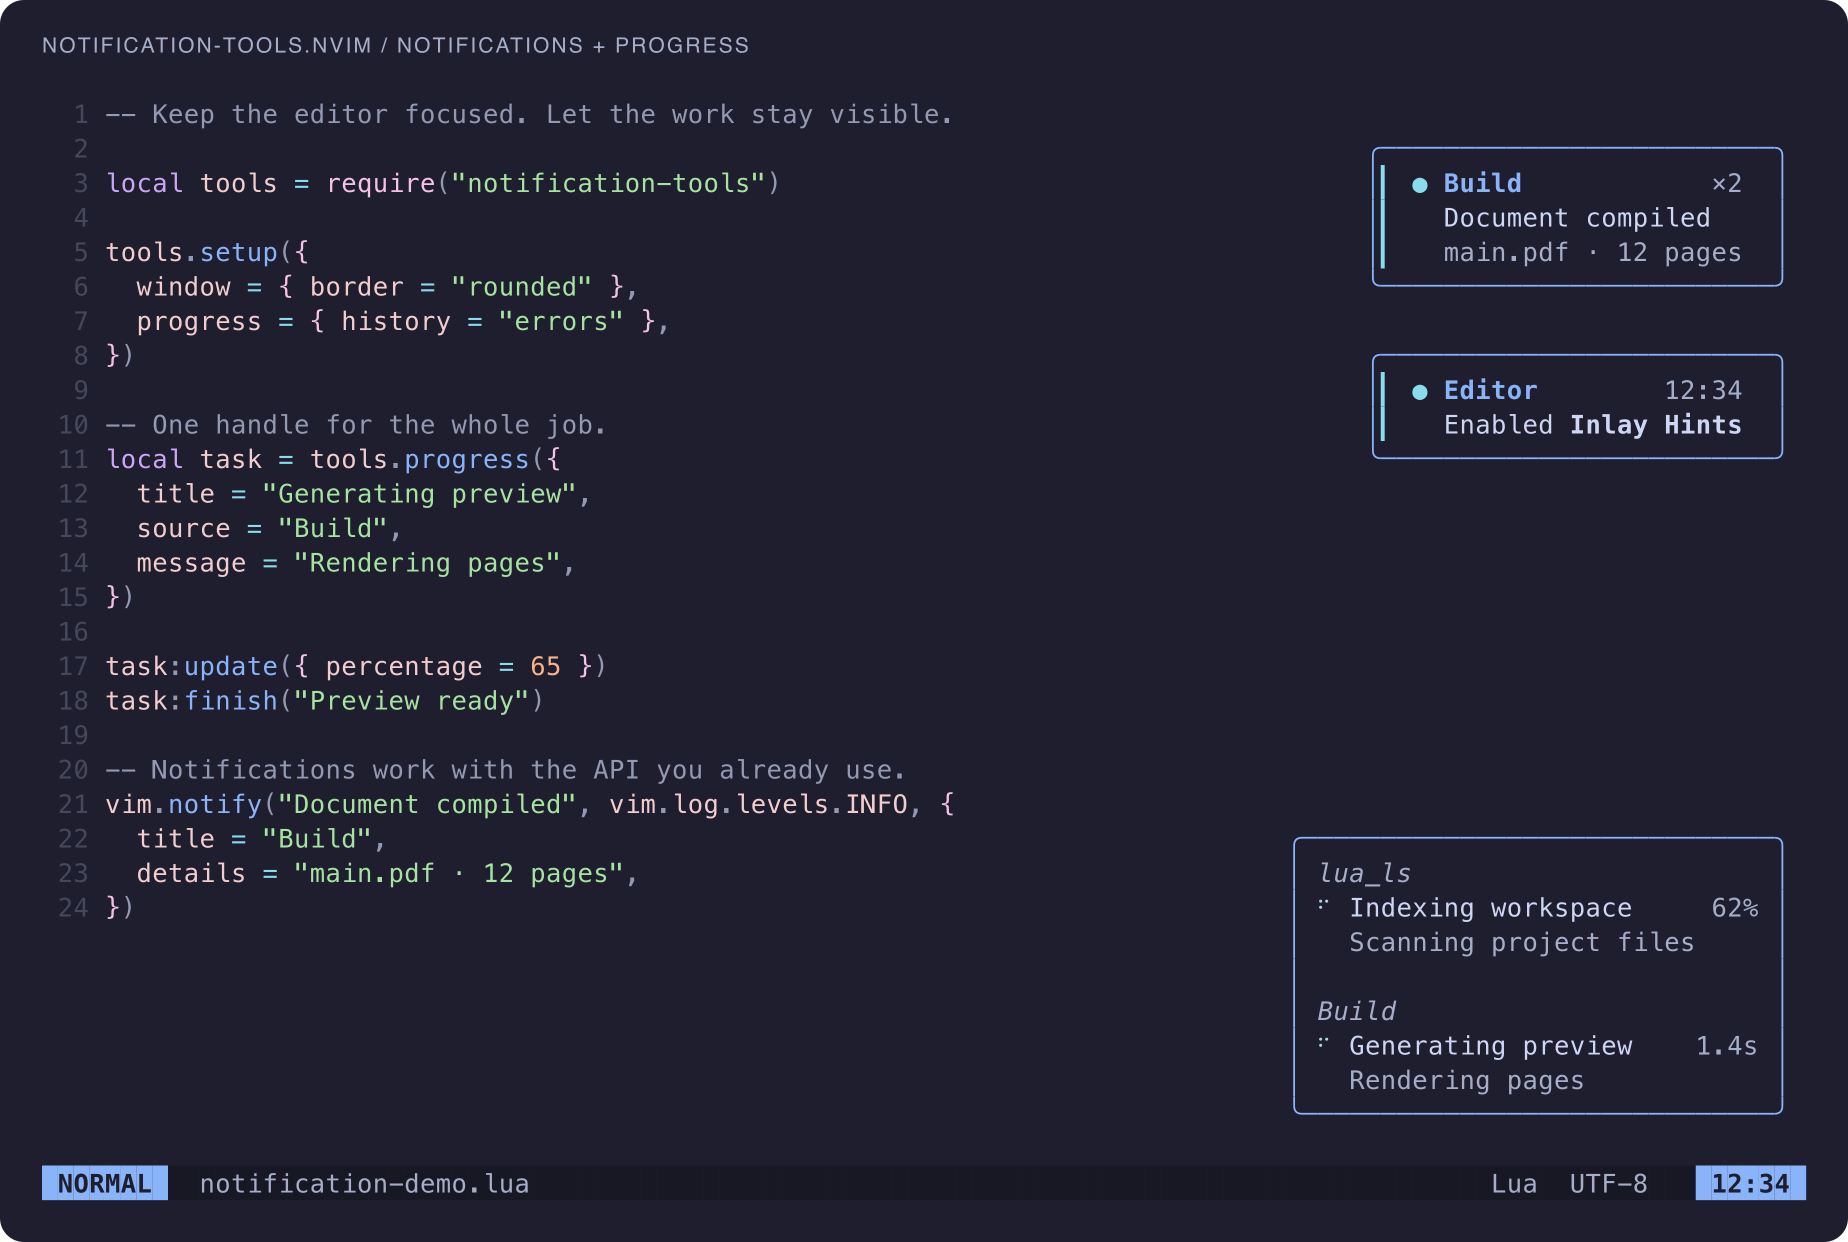
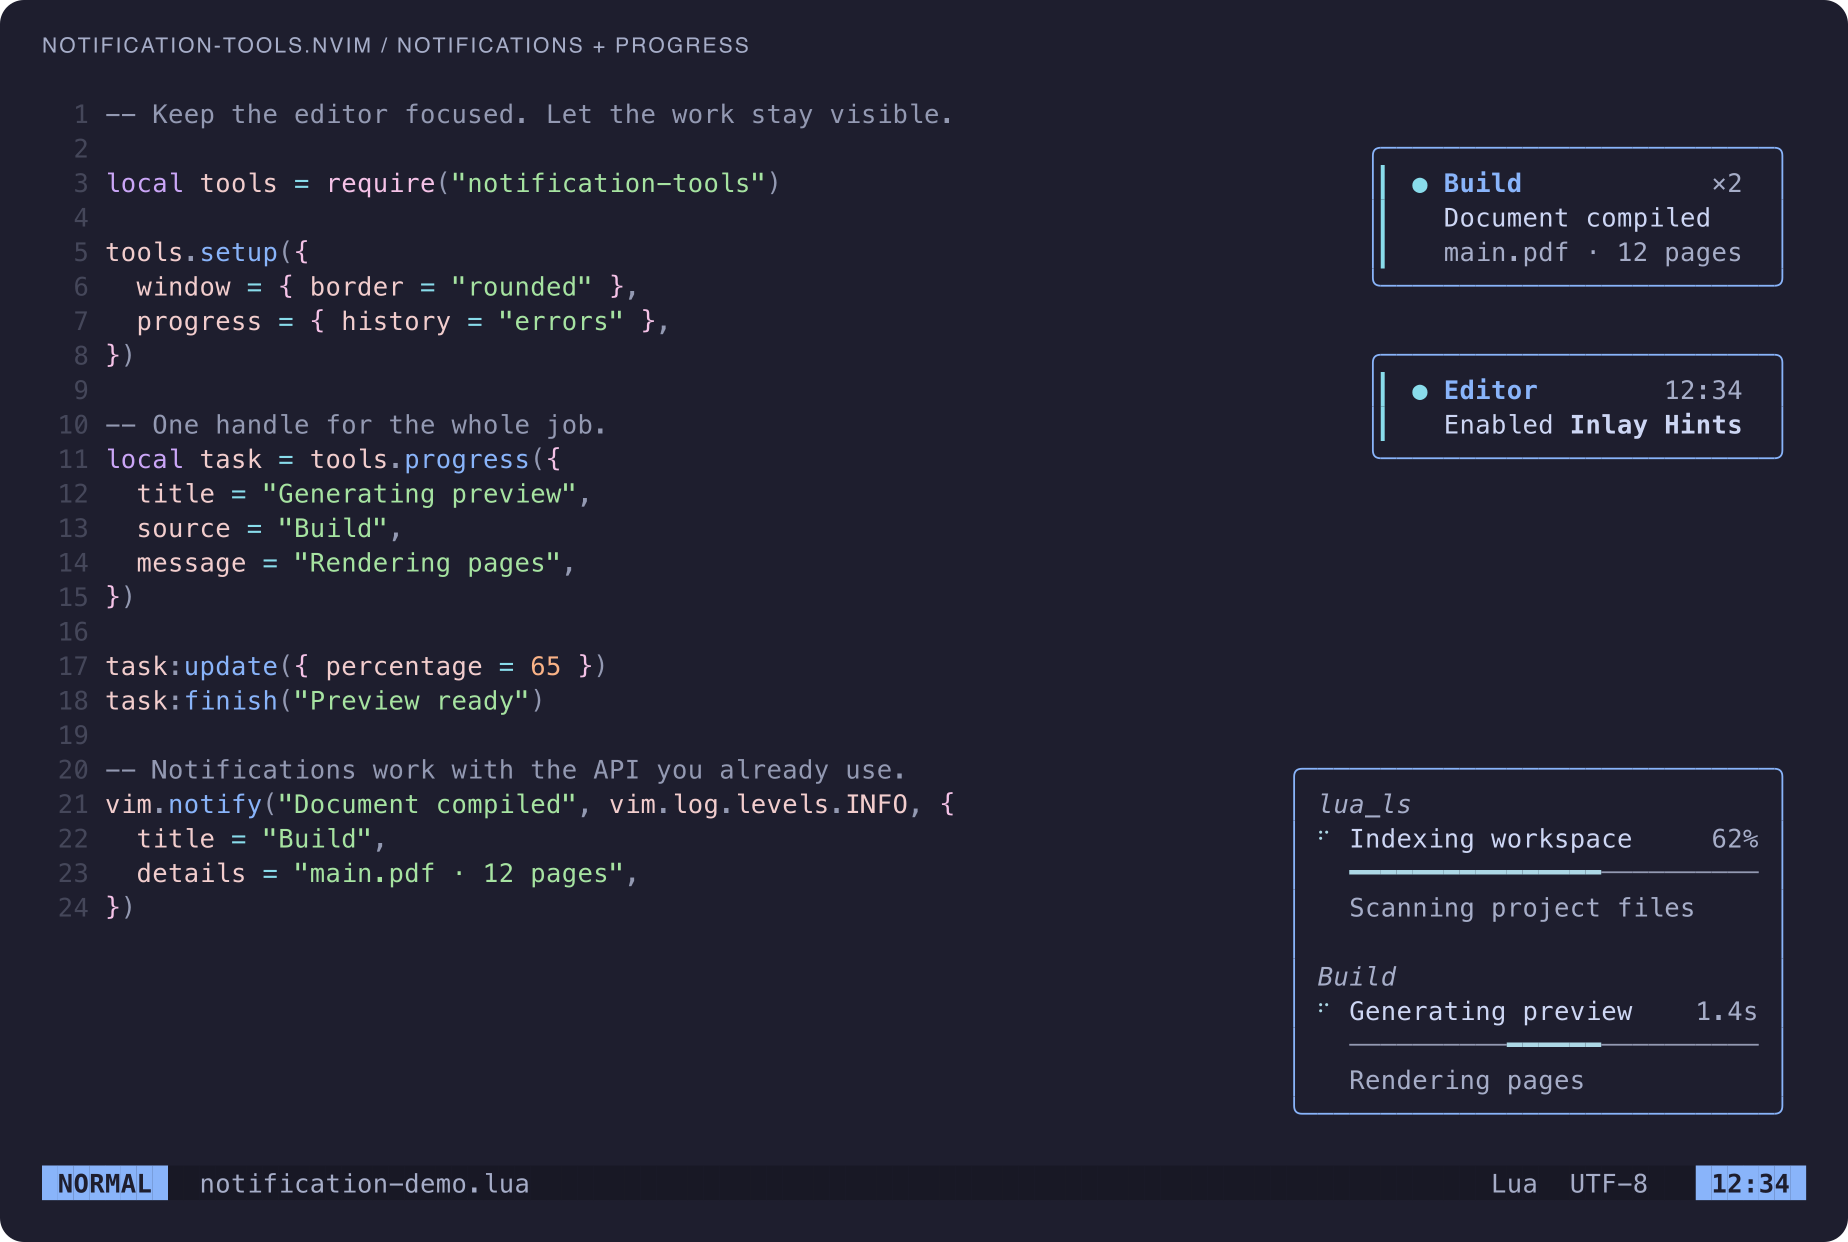
feat: make adaptive progress bars the default task style

Changed region(s): [[0.7094, 0.6425, 0.9562, 0.8567], [0.9253, 0.7955, 0.9562, 0.8567]]

diff --git a/scripts/screenshots.py b/scripts/screenshots.py
@@ -162,6 +162,7 @@ def svg(capture, title, font):
             cx, cy, radius = x + cell_width / 2, y + cell_height / 2, cell_width / 2
             box = {
                 "─": f"M {x},{cy} H {x + cell_width}",
+                "━": f"M {x},{cy} H {x + cell_width}",
                 "│": f"M {cx},{y} V {y + cell_height}",
                 "╭": f"M {cx},{y + cell_height} V {cy + radius} Q {cx},{cy} {x + cell_width},{cy}",
                 "╮": f"M {x},{cy} Q {cx},{cy} {cx},{cy + radius} V {y + cell_height}",
@@ -169,7 +170,8 @@ def svg(capture, title, font):
                 "╯": f"M {x},{cy} Q {cx},{cy} {cx},{cy - radius} V {y}",
             }
             if char in box:
-                foregrounds.append(f'<path d="{box[char]}" fill="none" stroke="{color(fg)}" stroke-width="1.2"/>')
+                stroke = 3 if char == "━" else 1.2
+                foregrounds.append(f'<path d="{box[char]}" fill="none" stroke="{color(fg)}" stroke-width="{stroke}"/>')
                 continue
             if char == "▎":
                 foregrounds.append(f'<rect x="{x}" y="{y}" width="{cell_width / 4}" height="{cell_height}" fill="{color(fg)}"/>')

diff --git a/README.md b/README.md
@@ -17,7 +17,7 @@ Markdown-aware notifications, grouped task progress, and a history worth opening
 ## Keep the work visible
 
 - **Readable notifications.** Rounded cards, severity accents, inline Markdown, repeat counts, and secondary details.
-- **Progress that stays out of your way.** Source groups, animated spinners, percentages or elapsed time, and optional LSP progress.
+- **Progress that stays out of your way.** Source groups, progress bars, animated waiting indicators, percentages or elapsed time, and optional LSP progress.
 - **A useful history.** Newest messages first, severity/source/title filters, native search and yanks, and cursor-line Markdown source reveal.
 - **Time to read.** Open a full notification and pause its remaining timeout until you close the reader.
 - **Control the noise.** Do not disturb, history-only routes, and a small synchronous filter API.
@@ -108,6 +108,18 @@ task:finish("PDF ready")
 `update()` accepts `title`, `source`, `message`, `percentage`, and `history`; omitted fields keep their values. Percentages are clamped to integer `0..100`. `finish(message?, status?)` accepts `success` (default), `error`, or `cancelled`. `cancel()` marks the display as cancelled; the caller cancels the actual job.
 
 The same active ID returns the same handle. Completed IDs can be reused; old handles become inert after completion, eviction, `clear_tasks()`, `setup()`, or `teardown()`. Mutation methods return the handle, and `is_active()` reports whether it still accepts updates. See [examples/task.lua](examples/task.lua).
+
+### Progress bars by default
+
+Each task displays a bar below its title. Known percentages fill the track from 0 to 100; tasks without a percentage show a bouncing segment and elapsed time. Successful completion fills the bar; failures and cancellations retain the known progress with their status color.
+
+Bars use the available window width. On short or narrow screens they fall back to the compact task row, keeping titles and percentages visible. To use the original spinner-and-text layout everywhere:
+
+```lua
+require("notification-tools").setup({ progress = { style = "compact" } })
+```
+
+`progress.style = "bar"` is the default. Fill colors follow `NotificationToolsProgress`, `Done`, `ERROR`, and `Cancelled`; the unfilled track uses `NotificationToolsProgressTrack`.
 
 ### Keep failures after the task disappears
 
@@ -221,6 +233,7 @@ require("notification-tools").setup({
   },
   progress = {
     enabled = true, -- API remains available when the panel is disabled.
+    style = "bar", -- "compact" restores spinner-and-text rows.
     max_items = 6,
     done_ttl = 1500,
     history = "errors", -- "all" or false also supported.
@@ -244,7 +257,7 @@ Notifications and the task panel follow the active tab. Switching tabs closes a 
 
 Parsed notification content is reused across timeout, title, and repeat-count updates. Unchanged layouts are cached by display constraints. Preview wrapping stops at the visible line budget while retaining full source text in history.
 
-Widths use display cells and only grow during a float's lifetime, except when the screen shrinks. Small screens drop optional task gaps, details, and source labels before hiding tasks. Hidden notifications still expire. Fades stay inside the configured lifetime, and completed tasks fade independently of active siblings. True-color terminals give the best blending.
+Widths use display cells and only grow during a float's lifetime, except when the screen shrinks. Small screens drop optional task gaps, details, bar rows, and source labels before hiding tasks. Hidden notifications still expire. Fades stay inside the configured lifetime, and completed tasks fade independently of active siblings. True-color terminals give the best blending.
 
 ### Theme it with highlight groups
 
@@ -257,7 +270,7 @@ vim.api.nvim_set_hl(0, "NotificationToolsBody", { fg = "#cdd6f4" })
 vim.api.nvim_set_hl(0, "NotificationToolsSource", { link = "Comment" })
 ```
 
-Use `NotificationToolsNotificationNormal` and `NotificationToolsProgressNormal` for separate surfaces. Other groups include `Title`, `Body`, `TaskTitle`, `Meta`, `Source`, `ERROR/WARN/INFO/DEBUG/TRACE`, `Progress`, `Done`, `Cancelled`, `MarkdownCode`, and `MarkdownLink`, each prefixed with `NotificationTools`.
+Use `NotificationToolsNotificationNormal` and `NotificationToolsProgressNormal` for separate surfaces. The empty bar track uses `NotificationToolsProgressTrack`. Other groups include `Title`, `Body`, `TaskTitle`, `Meta`, `Source`, `ERROR/WARN/INFO/DEBUG/TRACE`, `Progress`, `Done`, `Cancelled`, `MarkdownCode`, and `MarkdownLink`, each prefixed with `NotificationTools`.
 
 ## Integrate with your setup
 
